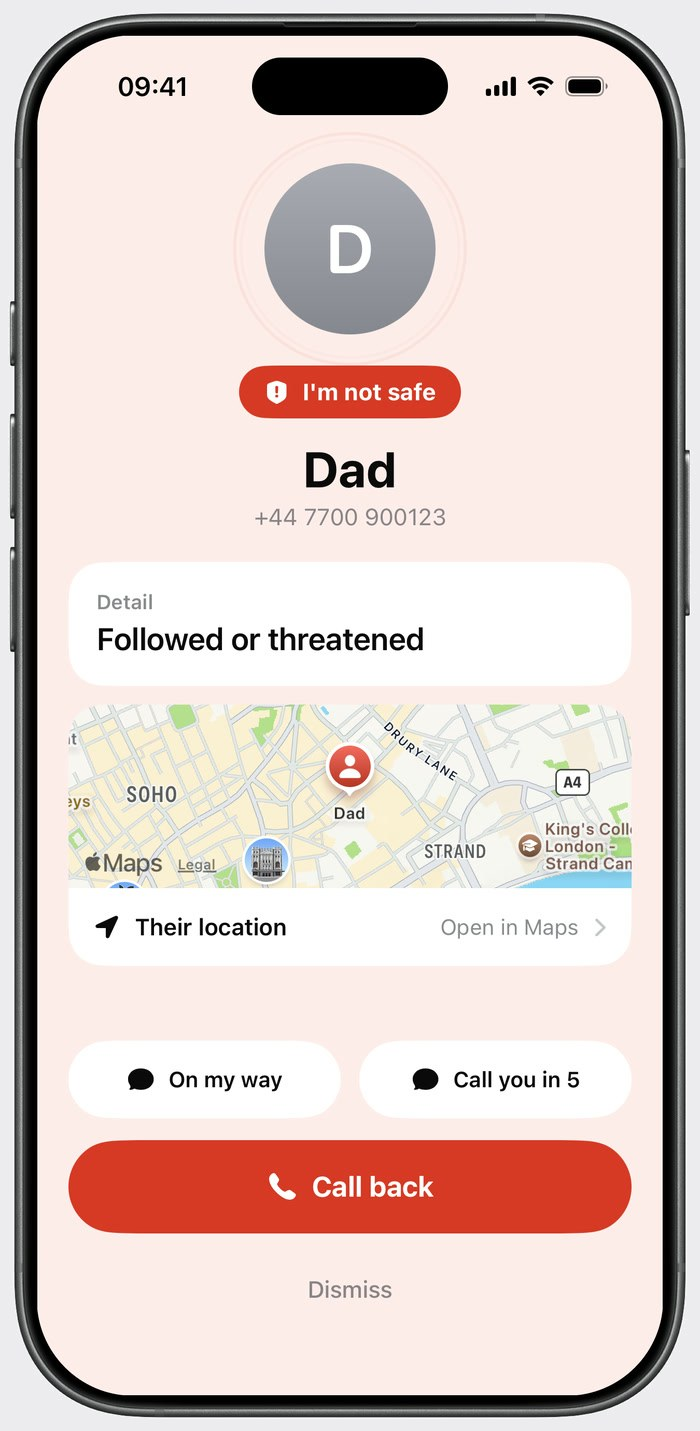
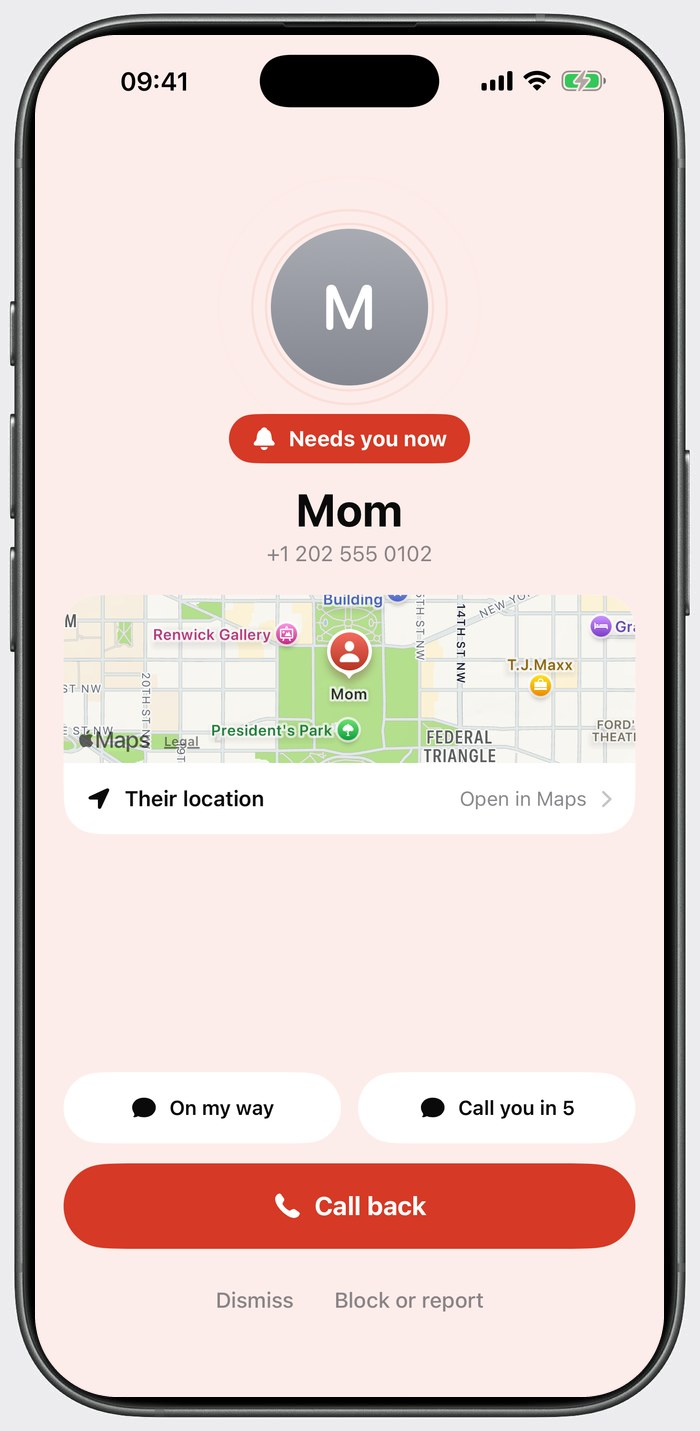
Home page and support: match the alarm version (no situations, rings even on silent)

diff --git a/index.html b/index.html
@@ -3,12 +3,12 @@
 <head>
   <meta charset="utf-8">
   <meta name="viewport" content="width=device-width, initial-scale=1">
-  <title>NeverMiss: urgent alerts that get through</title>
-  <meta name="description" content="Keep Do Not Disturb on and still be reachable in a real emergency. NeverMiss alerts get through for the few people you choose. Join the waitlist for NeverMiss on iPhone.">
+  <title>NeverMiss: reach your people, even on silent</title>
+  <meta name="description" content="When you need someone, NeverMiss rings their iPhone like an alarm, even on silent or Do Not Disturb. Only the few people you choose can do it. Join the waitlist for NeverMiss on iPhone.">
   <meta name="theme-color" content="#ECECEF">
   <meta property="og:type" content="website">
-  <meta property="og:title" content="NeverMiss: keep Do Not Disturb on, stay reachable">
-  <meta property="og:description" content="Urgent alerts for the few people who matter most. They get through Do Not Disturb. Join the waitlist.">
+  <meta property="og:title" content="NeverMiss: reach your people, even on silent">
+  <meta property="og:description" content="One tap rings their iPhone like an alarm, even on silent. Only for the few people you choose. Join the waitlist.">
   <meta property="og:url" content="https://nov2107.github.io/nevermiss-site/">
   <meta property="og:image" content="https://nov2107.github.io/nevermiss-site/img/og.png">
   <meta name="twitter:card" content="summary_large_image">
@@ -37,8 +37,8 @@
 <main id="main">
   <section class="hero" aria-labelledby="hero-title">
     <div class="hero__text">
-      <h1 id="hero-title">Keep Do Not Disturb on. Stay reachable in an&nbsp;emergency</h1>
-      <p class="lede">With NeverMiss, the few people you choose can reach you in a real emergency, even when your phone is on Do&nbsp;Not&nbsp;Disturb or a Focus. Everyone else stays quiet.</p>
+      <h1 id="hero-title">When you need someone, their phone rings. Even on&nbsp;silent</h1>
+      <p class="lede">Tap once, and the person you choose hears an alarm with your name and where you are, even when their phone is on silent or Do&nbsp;Not&nbsp;Disturb. Only the few people you pick can do this.</p>
 
       <form class="waitlist" id="join" data-source="hero" novalidate>
         <label class="visually-hidden" for="email-hero">Email address</label>
@@ -56,44 +56,42 @@
 
     <figure class="hero__phone">
       <div class="hero__device">
-        <img class="device" src="img/alert-screen.jpg?v=2" width="700" height="1431"
-             alt="NeverMiss alert on the receiver’s iPhone: Dad, I’m not safe, followed or threatened, with his location on a map and a Call back button.">
-        <img class="lock-banner" src="img/lock-banner.png" width="772" height="154"
-             alt="Lock screen notification: Time Sensitive, Dad, Doesn’t feel safe.">
+        <img class="device" src="img/alert-screen.jpg?v=3" width="700" height="1431"
+             alt="NeverMiss alert on the receiver’s iPhone: Mom needs you now, with her location on a map, reply buttons On my way and Call you in 5, and a Call back button.">
       </div>
-      <figcaption>First on their lock screen. Then this, when they open it.</figcaption>
+      <figcaption>First an alarm, even on silent. Then this, when they open it.</figcaption>
     </figure>
   </section>
 
   <section class="section problem" aria-label="The problem">
-    <p>Most people keep Do Not Disturb on at night. So the one call that really matters can go unanswered until morning.</p>
+    <p>Most people keep their phone on silent or Do Not Disturb. So the one call that really matters can go unanswered until morning.</p>
   </section>
 
   <section class="section" aria-labelledby="how-title">
     <h2 class="section__title" id="how-title">How it works</h2>
     <ol class="steps">
       <li class="step">
-        <img class="step__shot" src="img/step-situation.jpg?v=3" width="700" height="1431" loading="lazy"
-             alt="The What’s happening? screen: Medical emergency, I’m not safe, Home emergency and After an attack.">
+        <img class="step__shot" src="img/step-home.jpg?v=1" width="700" height="1431" loading="lazy"
+             alt="Home screen: emergency contacts Dad and Mom, and a red I need you button.">
         <div class="step__text">
-          <h3><span class="step__number">1</span>Pick what’s happening</h3>
-          <p>Medical, not safe, home emergency, or after an attack. No typing.</p>
+          <h3><span class="step__number">1</span>Tap “I need you”</h3>
+          <p>One button, nothing to type. It’s there the moment you open the app.</p>
         </div>
       </li>
       <li class="step">
-        <img class="step__shot" src="img/step-confirm.jpg?v=3" width="700" height="1431" loading="lazy"
-             alt="Confirm screen: alerting Dad about a medical emergency, detail It’s me, with a red Send alert button.">
+        <img class="step__shot" src="img/step-send.jpg?v=1" width="700" height="1431" loading="lazy"
+             alt="Confirm screen: alerting Mom, your location will be sent with the alert, and a red Send alert button.">
         <div class="step__text">
           <h3><span class="step__number">2</span>Pick who</h3>
-          <p>Only people who agreed to that situation show up. Add a detail if you have a second. Your location goes with it when it helps.</p>
+          <p>Only people who accepted you show up. Your location goes with it if you allow it, and you get three seconds to cancel.</p>
         </div>
       </li>
       <li class="step">
-        <img class="step__shot" src="img/step-sent.jpg?v=3" width="700" height="1431" loading="lazy"
-             alt="Alert sent screen: Dad, alert sent, what they see is Medical emergency, It’s me.">
+        <img class="step__shot" src="img/step-alert-sent.jpg?v=1" width="700" height="1431" loading="lazy"
+             alt="Alert sent screen: Mom, alert sent, what they see is Needs you now, status Not seen yet.">
         <div class="step__text">
-          <h3><span class="step__number">3</span>Know it reached them</h3>
-          <p>It gets through their Do Not Disturb and Focus, and rings again if they don’t open it. You see when they’ve seen it, and they can answer “On my way”.</p>
+          <h3><span class="step__number">3</span>Their phone rings like an alarm</h3>
+          <p>Even on silent and Do Not Disturb. You see when they’ve heard it or opened it, and they can answer “On my way”.</p>
         </div>
       </li>
     </ol>
@@ -101,7 +99,7 @@
 
   <section class="section" aria-labelledby="trust-title">
     <h2 class="section__title" id="trust-title">Only for real emergencies</h2>
-    <p class="section__intro">An alert that gets through Do Not Disturb is only worth something if nobody abuses it.</p>
+    <p class="section__intro">An alarm that gets through silent mode is only worth something if nobody abuses it.</p>
     <dl class="rules">
       <div>
         <dt>No message box</dt>
@@ -109,7 +107,7 @@
       </div>
       <div>
         <dt>They say yes first</dt>
-        <dd>You can only alert someone who accepted you, and only for the situations they chose.</dd>
+        <dd>You can only alert someone who accepted you.</dd>
       </div>
       <div>
         <dt>Leave or block any time</dt>
@@ -127,11 +125,11 @@
     <div class="questions">
       <details open>
         <summary>Doesn’t my iPhone already do this?</summary>
-        <p>Partly. iPhone’s Emergency Bypass lets one contact’s calls and texts ring through, even on silent. It’s worth turning on. But a call needs you to talk, and a text needs you to type. NeverMiss is for when you can’t: two taps tell them what’s wrong and where you are, and you know when they’ve seen it.</p>
+        <p>Partly. iPhone’s Emergency Bypass lets one contact’s calls and texts ring through, even on silent. It’s worth turning on. But a call needs you to talk, and a text needs you to type. NeverMiss is for when you can’t: one tap tells them you need them and where you are, and you know when they’ve heard it.</p>
       </details>
       <details>
         <summary>Does it ring when their phone is on silent?</summary>
-        <p>Not yet. It rings through Do Not Disturb and Focus. On silent mode, it still shows up on their screen, without sound. I’ve asked Apple for permission to ring through silent too.</p>
+        <p>Yes. It rings like an iPhone alarm, even on silent and Do Not Disturb, once they’ve allowed alarms for NeverMiss. It needs iOS 26 or later.</p>
       </details>
       <details>
         <summary>Is it free?</summary>
@@ -143,11 +141,11 @@
       </details>
       <details>
         <summary>Who sees my location?</summary>
-        <p>Only the person you alert, and only with a “Not safe”, “Home emergency” or “After an attack” alert, if you’ve allowed location. It’s never collected at any other time. <a href="privacy.html">Privacy policy</a></p>
+        <p>Only the person you alert, and only if you’ve allowed location. It’s sent with the alert and never collected at any other time. <a href="privacy.html">Privacy policy</a></p>
       </details>
       <details>
         <summary>What if I send one by mistake?</summary>
-        <p>You get three seconds to cancel before it goes. If it’s already sent, end it from the app and tell them it was a mistake. They get that straight away.</p>
+        <p>You get three seconds to cancel before it goes. If it’s already sent, stop it from the app and tell them why. They get that straight away.</p>
       </details>
     </div>
   </section>

diff --git a/support.html b/support.html
@@ -46,6 +46,10 @@
       <div class="answer"><p>If delivery fails, the app says so and you can tap Send alert again. If you need them right now, call them. If it keeps failing, email us with the time you sent it.</p></div>
     </details>
     <details>
+      <summary>An alert didn’t ring on silent.</summary>
+      <div class="answer"><p>Alerts ring like an alarm only if alarms are allowed for NeverMiss. Open NeverMiss and go to Settings: if it says “Alarms are off”, tap it to turn them on. Your iPhone also needs iOS 26 or later. Alerts older than 10 minutes, for example on a phone that was off, arrive as a notification without ringing.</p></div>
+    </details>
+    <details>
       <summary>I didn’t get my sign-in code by SMS.</summary>
       <div class="answer"><p>Check the number and country code, wait a minute, and try again. Some carriers delay or block these messages. If it keeps happening, email us and tell us your carrier.</p></div>
     </details>
